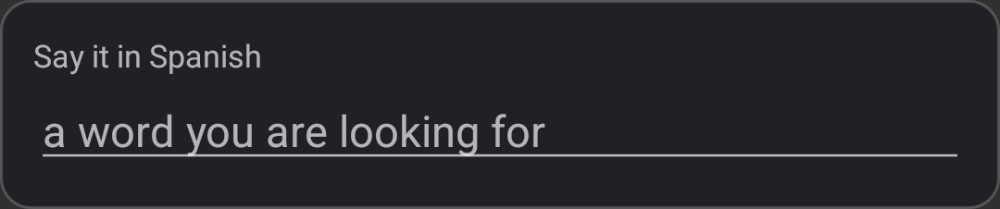
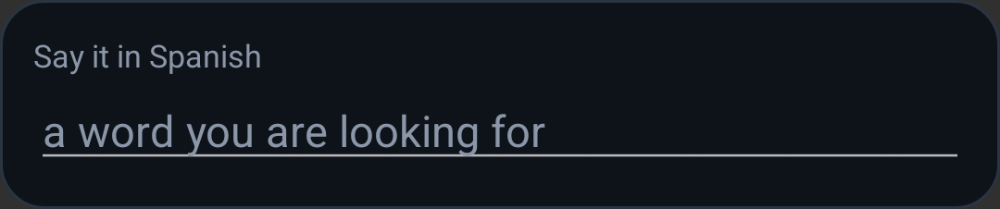
Dress the overlay card and the window in the same colours
The card the overlay puts over a word was still the old grey-on-white-ish
popup: pale blue marks, a white divider, a 12dp corner. It now uses what the
screen uses, so a lookup in the app and a lookup over another app are visibly
the same app: near-black card, blue for the sense numbers, amber for what a
sense is marked as, one muted grey for everything that is not the answer.

The window behind Compose was still Material's DayNight, which showed as a
purple status bar and a white flash on launch. It is dark, and says so before
anything is drawn.

Claude-Session: https://claude.ai/code/session_017qWP9gfbjBjBVc2A591nr4

diff --git a/app/src/main/java/de/tieo/taplex/EntryView.kt b/app/src/main/java/de/tieo/taplex/EntryView.kt
@@ -33,8 +33,8 @@ class EntryView(context: Context) : ScrollView(context) {
 
     init {
         setBackgroundResource(R.drawable.popup_bg)
-        val pad = dp(14)
-        setPadding(pad, dp(12), pad, dp(12))
+        val pad = dp(16)
+        setPadding(pad, dp(14), pad, dp(14))
         isScrollbarFadingEnabled = true
         addView(column, LayoutParams(LayoutParams.MATCH_PARENT, LayoutParams.WRAP_CONTENT))
     }
@@ -122,12 +122,13 @@ class EntryView(context: Context) : ScrollView(context) {
             text.setSpan(ForegroundColorSpan(MUTED), start, text.length, Spanned.SPAN_EXCLUSIVE_EXCLUSIVE)
             text.setSpan(RelativeSizeSpan(0.8f), start, text.length, Spanned.SPAN_EXCLUSIVE_EXCLUSIVE)
         }
-        return line(text, size = 18f)
+        return line(text, size = 19f)
     }
 
     private fun senseLine(number: Int, sense: Sense): TextView {
         val text = SpannableStringBuilder("$number  ")
-        text.setSpan(ForegroundColorSpan(MUTED), 0, text.length, Spanned.SPAN_EXCLUSIVE_EXCLUSIVE)
+        text.setSpan(ForegroundColorSpan(LINK), 0, text.length, Spanned.SPAN_EXCLUSIVE_EXCLUSIVE)
+        text.setSpan(RelativeSizeSpan(0.85f), 0, text.length, Spanned.SPAN_EXCLUSIVE_EXCLUSIVE)
         if (sense.tags.isNotEmpty()) {
             val start = text.length
             text.append(sense.tags.joinToString(", ")).append("  ")
@@ -135,23 +136,23 @@ class EntryView(context: Context) : ScrollView(context) {
             text.setSpan(RelativeSizeSpan(0.85f), start, text.length, Spanned.SPAN_EXCLUSIVE_EXCLUSIVE)
         }
         text.append(sense.gloss)
-        return line(text, size = 15f).apply { setPadding(0, dp(6), 0, 0) }
+        return line(text, size = 15f).apply { setPadding(0, dp(7), 0, 0) }
     }
 
     private fun exampleLine(example: String): TextView =
         line(example, size = 13f, color = MUTED).apply {
             setTypeface(typeface, Typeface.ITALIC)
-            setPadding(dp(16), dp(2), 0, 0)
+            setPadding(dp(18), dp(3), 0, 0)
         }
 
     private fun divider(): View =
         View(context).apply {
-            setBackgroundColor(Color.argb(60, 255, 255, 255))
+            setBackgroundColor(RULE)
             layoutParams = LinearLayout.LayoutParams(LayoutParams.MATCH_PARENT, dp(1))
                 .apply { topMargin = dp(12) }
         }
 
-    private fun line(text: CharSequence, size: Float, color: Int = Color.WHITE): TextView =
+    private fun line(text: CharSequence, size: Float, color: Int = TEXT): TextView =
         TextView(context).apply {
             setText(text)
             setTextColor(color)
@@ -163,9 +164,15 @@ class EntryView(context: Context) : ScrollView(context) {
         (value * context.resources.displayMetrics.density).toInt()
 
     companion object {
+        /** The same colours the app's own screen uses, so the two look like one app. */
+        val TEXT = Color.rgb(231, 236, 243)
+
         /** The colour of everything that is not the answer itself. */
-        val MUTED = Color.argb(170, 255, 255, 255)
-        val TAG = Color.rgb(150, 200, 255)
-        val LINK = Color.rgb(130, 180, 255)
+        val MUTED = Color.rgb(139, 151, 168)
+
+        /** What a sense is marked as: the marker colour, as on the screen. */
+        val TAG = Color.rgb(255, 197, 61)
+        val LINK = Color.rgb(76, 154, 255)
+        val RULE = Color.rgb(34, 43, 56)
     }
 }

diff --git a/app/src/main/java/de/tieo/taplex/TaplexScreen.kt b/app/src/main/java/de/tieo/taplex/TaplexScreen.kt
@@ -151,11 +151,11 @@ private fun androidx.compose.foundation.lazy.LazyListScope.setup(
     actions: ScreenActions
 ) {
     val steps = listOf(
-        Triple(R.string.setup_lookup, R.string.setup_lookup_why, state.lookupEnabled),
-        Triple(R.string.setup_overlay, R.string.setup_overlay_why, state.canDrawOverlay),
-        Triple(R.string.setup_pack, R.string.setup_pack_why, state.installed.isNotEmpty())
+        Step(R.string.setup_lookup, R.string.setup_lookup_why, state.lookupEnabled, R.string.turn_on),
+        Step(R.string.setup_overlay, R.string.setup_overlay_why, state.canDrawOverlay, R.string.turn_on),
+        Step(R.string.setup_pack, R.string.setup_pack_why, state.installed.isNotEmpty(), R.string.add)
     )
-    val current = steps.indexOfFirst { !it.third }
+    val current = steps.indexOfFirst { !it.done }
 
     item {
         Text(
@@ -172,12 +172,12 @@ private fun androidx.compose.foundation.lazy.LazyListScope.setup(
     }
 
     itemsIndexed(steps) { index, step ->
-        val (title, why, done) = step
         SetupStep(
             number = index + 1,
-            title = stringResource(title),
-            detail = stringResource(why),
-            done = done,
+            title = stringResource(step.title),
+            detail = stringResource(step.why),
+            done = step.done,
+            act = stringResource(step.act),
             live = index == current && state.build !is PackService.State.Working,
             onAct = when (index) {
                 0 -> actions.onEnableLookup
@@ -187,6 +187,9 @@ private fun androidx.compose.foundation.lazy.LazyListScope.setup(
         )
     }
 }
+
+/** One thing still to do before the app can answer anything. */
+private data class Step(val title: Int, val why: Int, val done: Boolean, val act: Int)
 
 private fun <T> androidx.compose.foundation.lazy.LazyListScope.itemsIndexed(
     values: List<T>,
@@ -201,6 +204,7 @@ private fun SetupStep(
     title: String,
     detail: String,
     done: Boolean,
+    act: String,
     live: Boolean,
     onAct: () -> Unit
 ) {
@@ -270,9 +274,7 @@ private fun SetupStep(
             }
             if (live) {
                 Spacer(Modifier.width(12.dp))
-                Button(onClick = onAct, shape = RoundedCornerShape(12.dp)) {
-                    Text(stringResource(R.string.turn_on))
-                }
+                Button(onClick = onAct, shape = RoundedCornerShape(12.dp)) { Text(act) }
             }
         }
     }
@@ -670,9 +672,9 @@ private fun HoverCard(state: UiState, actions: ScreenActions) {
 @Composable
 private fun Steps() {
     Column(verticalArrangement = Arrangement.spacedBy(10.dp)) {
-        Step(1, stringResource(R.string.step_arm))
-        Step(2, stringResource(R.string.step_tap))
-        Step(3, stringResource(R.string.step_say))
+        HowStep(1, stringResource(R.string.step_arm))
+        HowStep(2, stringResource(R.string.step_tap))
+        HowStep(3, stringResource(R.string.step_say))
         Text(
             stringResource(R.string.records_nothing),
             style = MaterialTheme.typography.bodySmall,
@@ -683,7 +685,7 @@ private fun Steps() {
 }
 
 @Composable
-private fun Step(number: Int, text: String) {
+private fun HowStep(number: Int, text: String) {
     Row(Modifier.padding(start = 2.dp), verticalAlignment = Alignment.Top) {
         Text(
             "$number",
